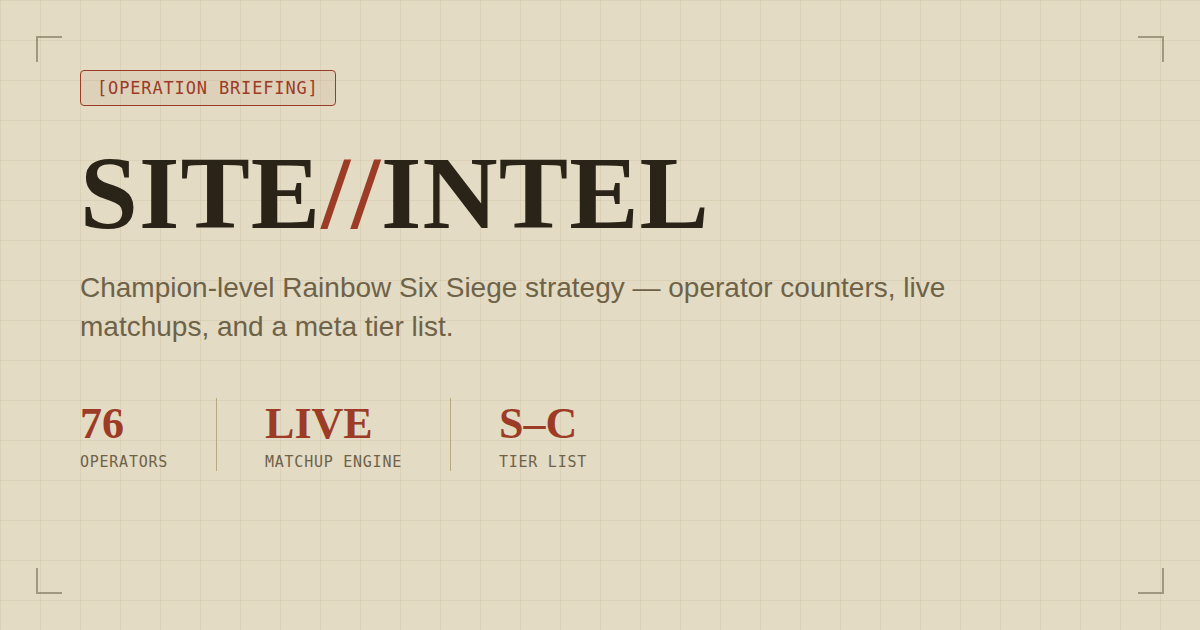
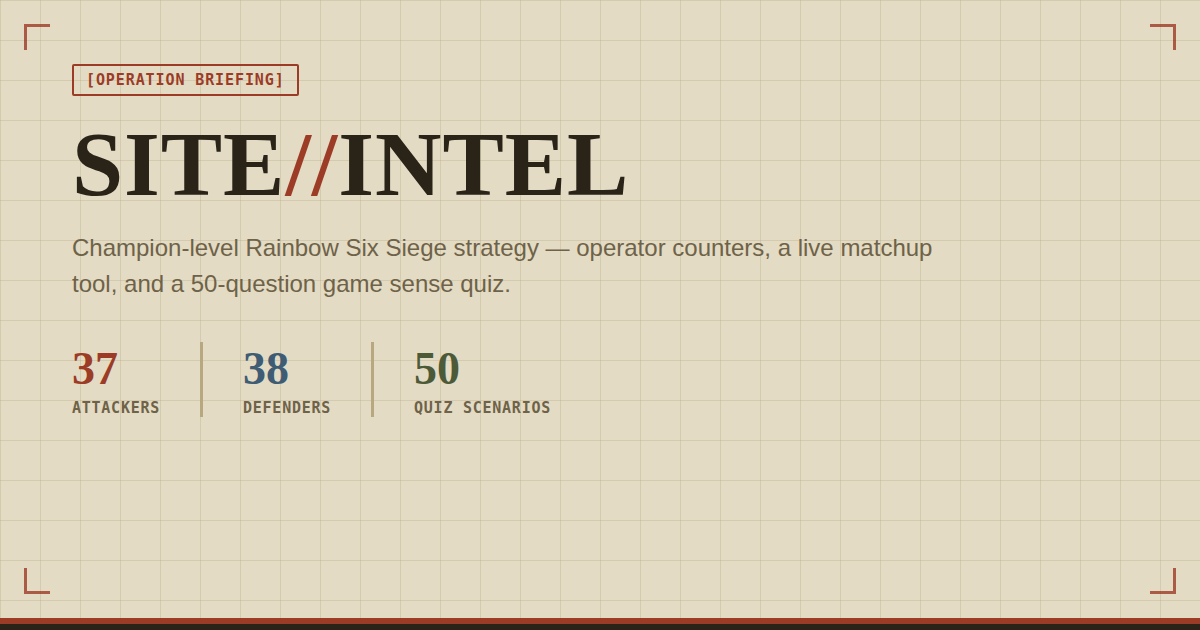
Site audit: fix stale metadata, regenerate OG image, detangle homepage
Metadata cleanup — index.html, site.webmanifest, and sitemap.xml still
referenced the deleted Tier List page and the old 76-operator count,
stale since that feature was removed earlier in the project. Updated
copy to the current 75-operator roster and current feature set, fixed
sitemap.xml to list the real /operators/attack and /operators/defense
routes instead of the dead /tierlist one.

Regenerated public/og-image.png — the social share image still showed
"76 OPERATORS" and an "S-C TIER LIST" stat for a feature that's been
gone for a while, meaning every link shared from this site was showing
stale, inaccurate info. Rebuilt it to match current stats (37/38/50)
and the current bolder visual style.

Homepage detangle — App.jsx rendered <Home /><GameSense /> both on the
"/" route, meaning the entire Game Sense page (operator search, tips,
and now a 50-question quiz) was duplicated directly onto the homepage
on top of already living at its own /gamesense route. That made the
homepage 3246px tall for no reason. "/" now renders just <Home />;
all of its existing CTA buttons already link to /operators, /matchup,
and /gamesense, so no functionality was lost — homepage is now a
single tight screen instead of an accidental duplicate of another page.

Also ran a full functional pass (desktop + mobile, every route) via
Playwright: zero console/page errors, zero horizontal overflow at
390px width, all interactive elements (search, filters, sort, quiz
[…]

diff --git a/index.html b/index.html
@@ -5,7 +5,7 @@
     <meta charset="UTF-8" />
     <meta name="viewport" content="width=device-width, initial-scale=1.0" />
     <title>Site//Intel — R6 Siege Strategy Hub</title>
-    <meta name="description" content="Champion-level Rainbow Six Siege strategy — operator counters, live matchups, and a meta tier list for all 76 operators." />
+    <meta name="description" content="Champion-level Rainbow Six Siege strategy — operator counters, a live matchup tool, and a 50-question game sense quiz for all 75 operators." />
     <meta name="theme-color" content="#9C3B26" />
     <link rel="canonical" href="https://your-domain-here.vercel.app/" />
 
@@ -18,7 +18,7 @@
     <meta property="og:type" content="website" />
     <meta property="og:site_name" content="Site//Intel" />
     <meta property="og:title" content="Site//Intel — R6 Siege Strategy Hub" />
-    <meta property="og:description" content="Champion-level Rainbow Six Siege strategy — operator counters, live matchups, and a meta tier list." />
+    <meta property="og:description" content="Champion-level Rainbow Six Siege strategy — operator counters, a live matchup tool, and a 50-question game sense quiz." />
     <meta property="og:url" content="https://your-domain-here.vercel.app/" />
     <meta property="og:image" content="https://your-domain-here.vercel.app/og-image.png" />
     <meta property="og:image:width" content="1200" />
@@ -26,7 +26,7 @@
 
     <meta name="twitter:card" content="summary_large_image" />
     <meta name="twitter:title" content="Site//Intel — R6 Siege Strategy Hub" />
-    <meta name="twitter:description" content="Champion-level Rainbow Six Siege strategy — operator counters, live matchups, and a meta tier list." />
+    <meta name="twitter:description" content="Champion-level Rainbow Six Siege strategy — operator counters, a live matchup tool, and a 50-question game sense quiz." />
     <meta name="twitter:image" content="https://your-domain-here.vercel.app/og-image.png" />
   </head>
   <body>

diff --git a/src/App.jsx b/src/App.jsx
@@ -50,7 +50,7 @@ export default function SiegeHub() {
       </nav>
 
       <Routes>
-        <Route path="/" element={<><Home /><GameSense /></>} />
+        <Route path="/" element={<Home />} />
         <Route path="/operators" element={<OperatorsHub />} />
         <Route path="/operators/attack" element={<Operators side="atk" />} />
         <Route path="/operators/defense" element={<Operators side="def" />} />
